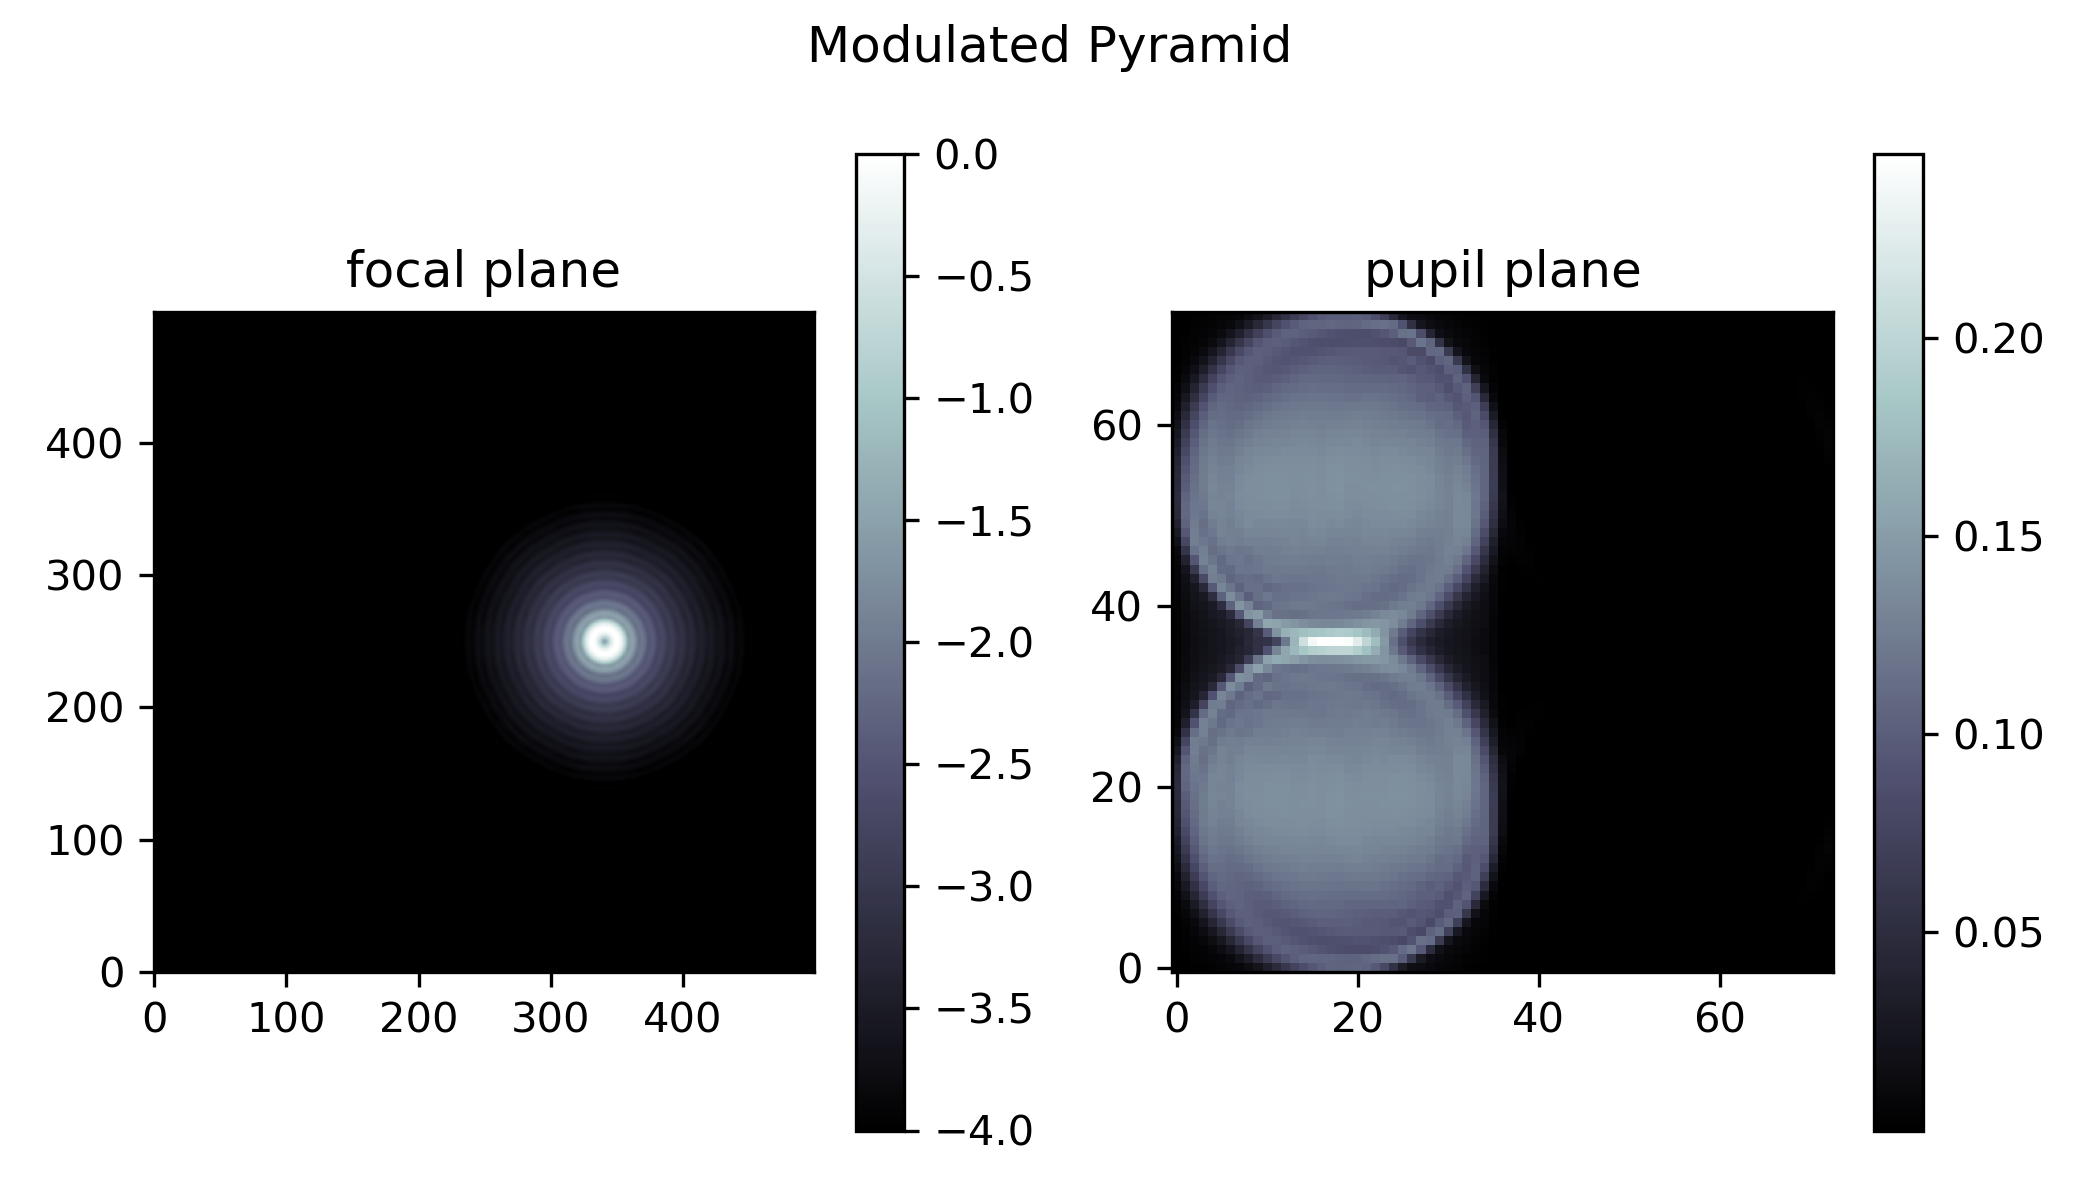
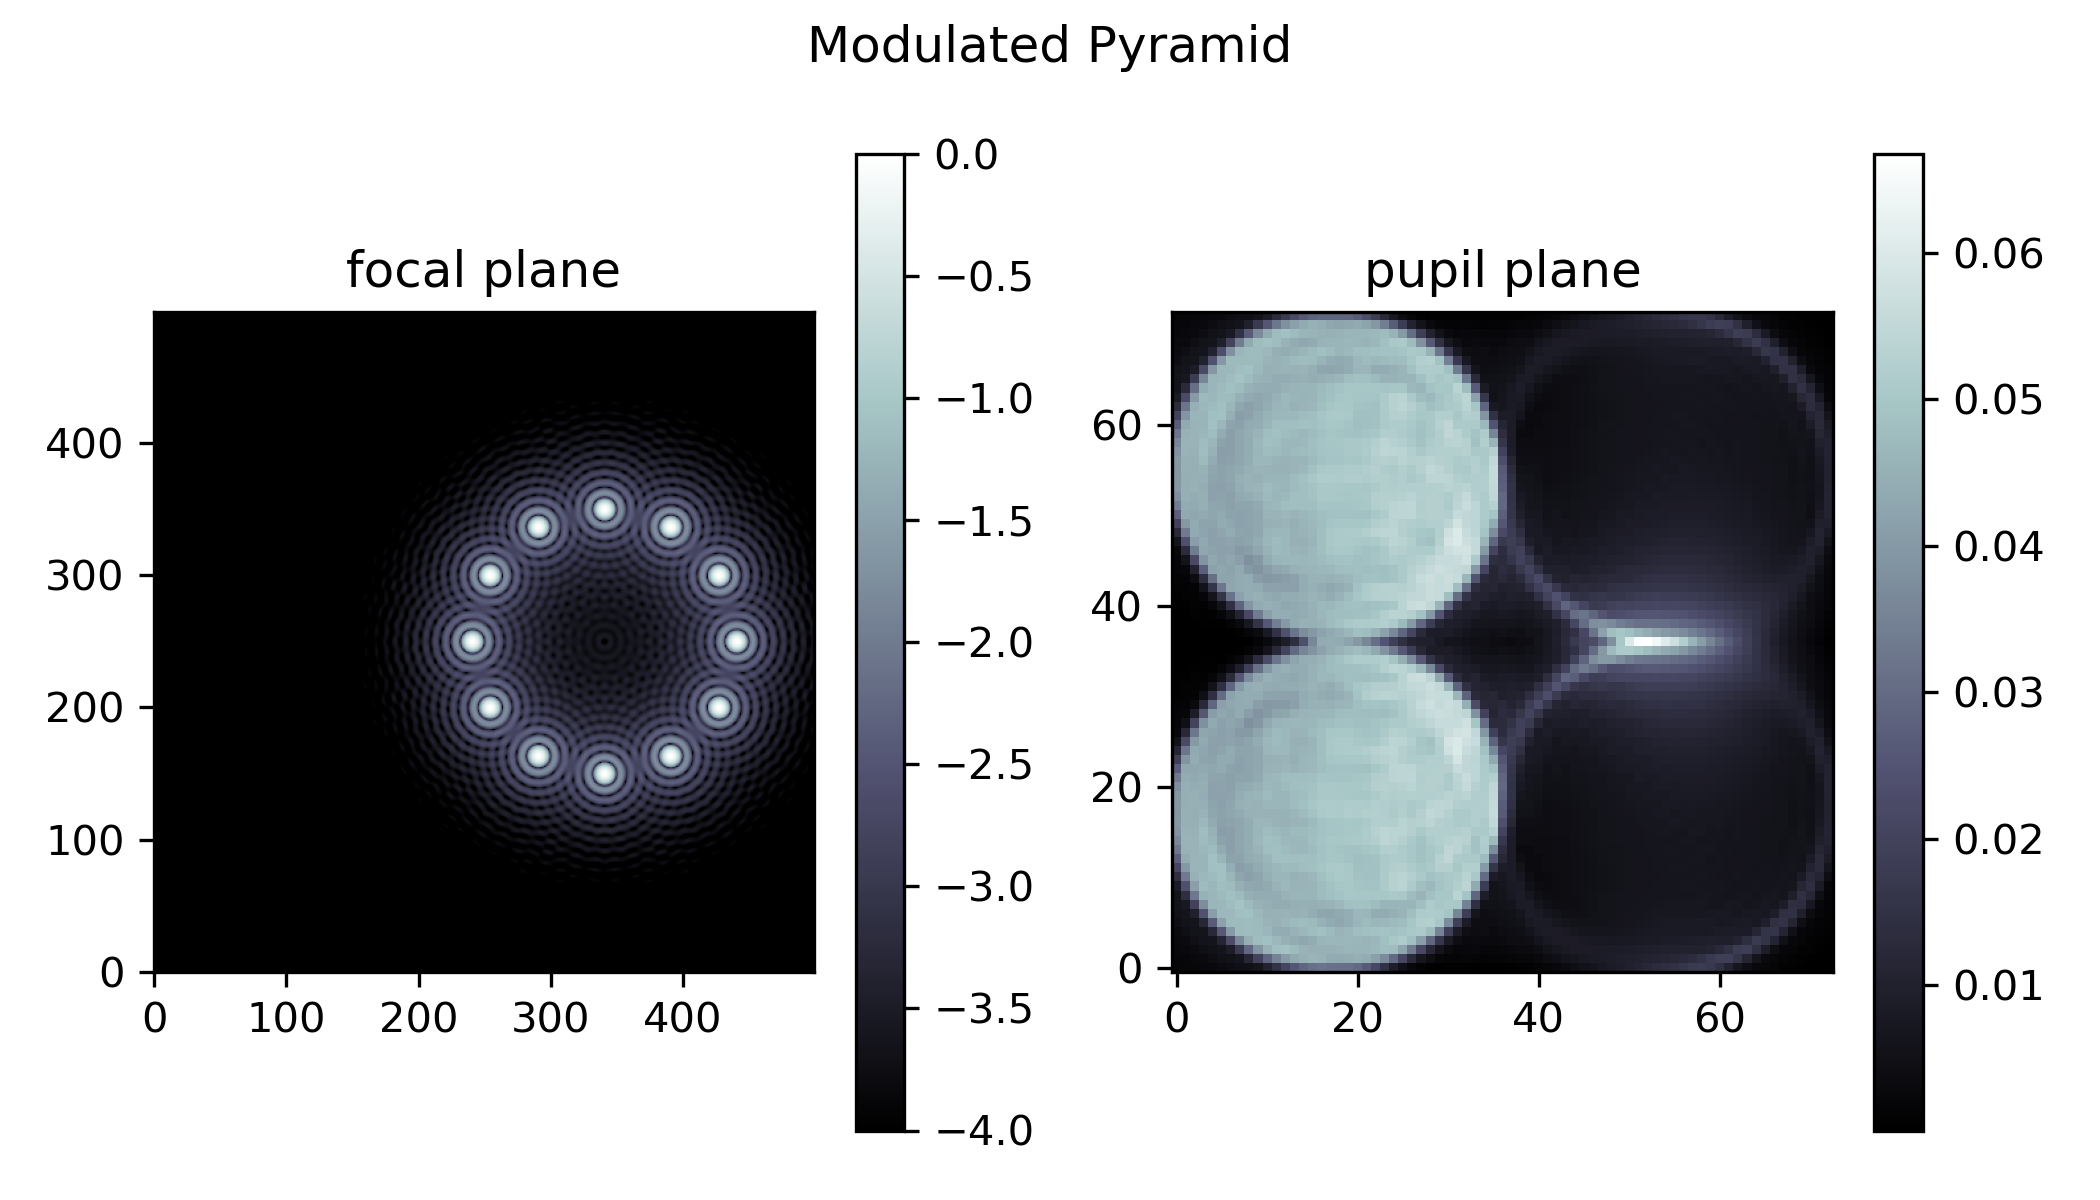
Adding documentation

diff --git a/ModulatedPyWFS.py b/ModulatedPyWFS.py
@@ -24,8 +24,31 @@ class ModulatedWavefrontSensor(WavefrontSensor):
 
     def modulate(self, wavefront, radius, num_steps, 
                  propagator=None):
-        # This is a modified version of ModulatedPyramidWavefrontSensorOptics
-        # in hcipy.wavefront_sensing.pyramid
+        """
+        Take a measurement of the wavefront using a modulated PyWFS. 
+
+        Parameters
+        ----------
+        wavefront : hcipy.optics.wavefront.Wavefront
+            HCIPy wavefront object representing the wavefront at the entrance
+            of the telescope (i.e. in a pupil plane).
+        radius : scalar
+            Modulation radius in radians. 
+        num_steps : int
+            Number of modulation steps (how many points on the circle to 
+            sample).
+        propagator : callable, optional
+            Propagator to use for the wavefront. If None, the default 
+            propagator is the pyramid optic (i.e. the wavefront goes into four 
+            pupil images). This can be used to propagate the wavefront to a 
+            focal plane, if desired, like in visualize_modulation().
+            The default is None.
+
+        Returns
+        -------
+        signal : np.ndarray
+            The intensity signal of the modulated PyWFS.
+        """
 
         # Create a tip-tilt mirror to steer the wavefront
         tip_tilt_mirror = hp.optics.TipTiltMirror(wavefront.grid)

diff --git a/examples/modulation/modulate.py b/examples/modulation/modulate.py
@@ -47,7 +47,7 @@ def plot_progression(focal_image, pupil_image):
 if __name__ == "__main__":
     N_pupil_px = 2**8
     WFE = np.radians(1/3600)
-    modulation_radius = np.radians(0.1/3600)
+    modulation_radius = np.radians(1/3600)
     modulation_steps = 12
     
     # Create the telescope aperture
